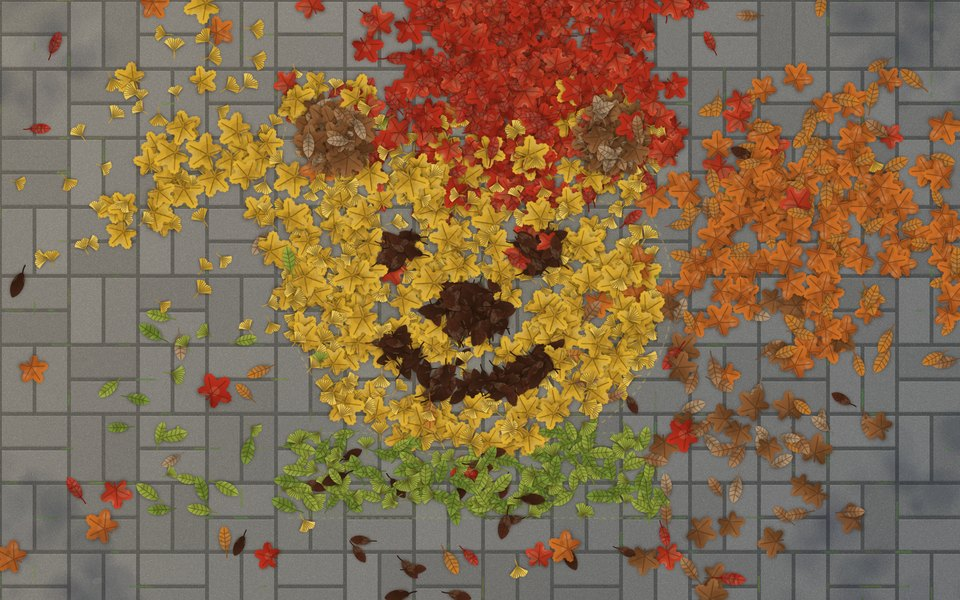
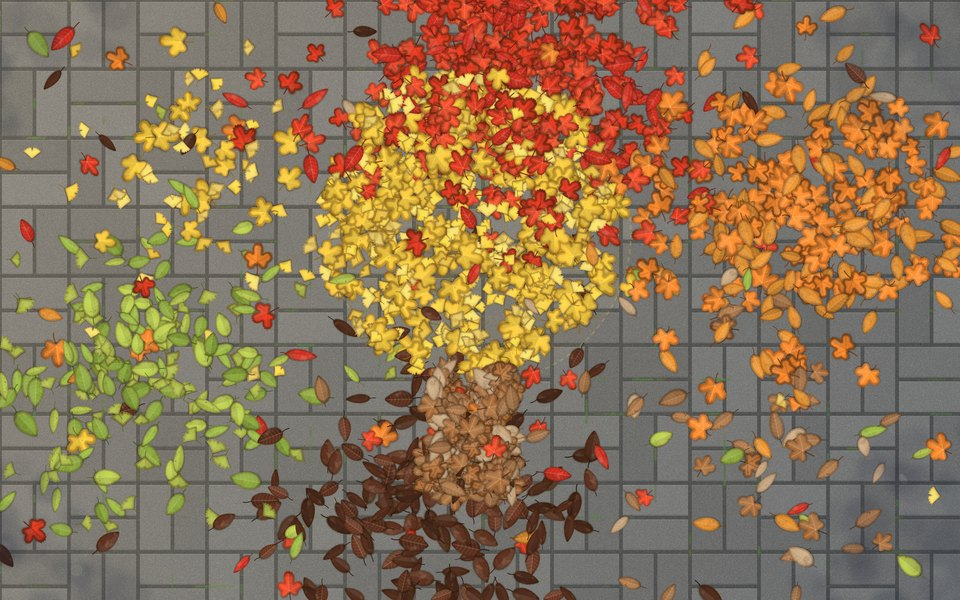
day-261106 낙엽을 사실적으로, 쉬운 도안 다섯 개 추가

diff --git a/day-261106/scene.js b/day-261106/scene.js
@@ -9,51 +9,82 @@ export const FAMS = [
   { name: '초록', ink: '#9bbd4a', sp: [[2, '#86a23c', '#4f6a1f', 1], [2, '#a7b84a', '#6b7e25', .95], [1, '#a9b94c', '#6f7e26', .8]] },
 ];
 
-export function leafPath(ctx, kind, s) {
-  ctx.beginPath();
-  if (kind === 0) {
-    for (let i = 0; i <= 140; i++) {
-      const t = i / 140 * TAU - Math.PI / 2;
-      const lobe = Math.pow(Math.abs(Math.cos(2.5 * (t + Math.PI / 2))), 1.3), saw = .06 * Math.pow(Math.abs(Math.sin(t * 15)), 3);
-      const r = s * (.56 + .44 * lobe + saw) * (1 - .5 * Math.pow(Math.max(0, Math.sin(t)), 6));
-      i ? ctx.lineTo(Math.cos(t) * r, Math.sin(t) * r) : ctx.moveTo(Math.cos(t) * r, Math.sin(t) * r);
+const D2R = Math.PI / 180;
+function maplePts(s) {
+  const tips = [[-148, .82], [-90, 1], [-32, .82], [28, .52], [152, .52]].map(([a, l]) => [(a + rnd(-7, 7)) * D2R, l * rnd(.9, 1.08)]);
+  const seq = [...tips.slice(0, 4), [Math.PI / 2, .12, 1], tips[4]], pts = [];
+  for (let i = 0; i < seq.length; i++) {
+    const [a, la, sa] = seq[i], nx = seq[(i + 1) % seq.length], lb = nx[1], stem = sa || nx[2];
+    let b = nx[0]; if (b <= a) b += TAU;
+    const rs = stem ? .18 : rnd(.44, .54), n = 16;
+    for (let k = 0; k < n; k++) {
+      const t = k / n, ang = a + (b - a) * t;
+      let r = t < .5 ? la + (rs - la) * Math.pow(t * 2, 2.4) : rs + (lb - rs) * (1 - Math.pow(1 - (t - .5) * 2, 2.4));
+      if (k % 2 && !stem) r *= 1 + rnd(.05, .11) * Math.min(1, Math.abs(t - .5) * 3);
+      pts.push([Math.cos(ang) * r * s, Math.sin(ang) * r * s]);
     }
-    ctx.closePath();
-  } else if (kind === 1) {
-    ctx.moveTo(0, .42 * s);
-    ctx.quadraticCurveTo(-.18 * s, .12 * s, -.82 * s, -.32 * s);
-    ctx.quadraticCurveTo(-.45 * s, -.92 * s, -.04 * s, -.62 * s);
-    ctx.lineTo(0, -.44 * s); ctx.lineTo(.04 * s, -.62 * s);
-    ctx.quadraticCurveTo(.45 * s, -.92 * s, .82 * s, -.32 * s);
-    ctx.quadraticCurveTo(.18 * s, .12 * s, 0, .42 * s);
-    ctx.closePath();
-  } else {
-    ctx.moveTo(0, -s);
-    ctx.bezierCurveTo(.58 * s, -.62 * s, .5 * s, .5 * s, 0, .78 * s);
-    ctx.bezierCurveTo(-.5 * s, .5 * s, -.58 * s, -.62 * s, 0, -s);
-    ctx.closePath();
   }
+  return { pts, veins: tips.map(([a, l]) => [Math.cos(a) * l * s * .92, Math.sin(a) * l * s * .92]), base: [0, 0], stem: [0, s * .12] };
+}
+function ginkgoPts(s) {
+  const pts = [], cy = s * .42, notch = rnd(.1, .3), A0 = -142 * D2R, A1 = -38 * D2R, ph = rnd(0, 9);
+  pts.push([0, cy]);
+  for (let k = 1; k < 8; k++) { const t = k / 8, ex = Math.cos(A0) * s * 1.15, ey = cy + Math.sin(A0) * s * 1.15; pts.push([ex * t * (1 - .12 * Math.sin(t * Math.PI)), cy + (ey - cy) * t]); }
+  for (let k = 0; k <= 48; k++) {
+    const a = A0 + (A1 - A0) * k / 48, d = (a + Math.PI / 2) / .07;
+    const r = s * 1.15 * (.97 + .035 * Math.sin(a * 30 + ph)) * (1 - notch * Math.exp(-d * d));
+    pts.push([Math.cos(a) * r, cy + Math.sin(a) * r]);
+  }
+  for (let k = 7; k > 0; k--) { const t = k / 8, ex = Math.cos(A1) * s * 1.15, ey = cy + Math.sin(A1) * s * 1.15; pts.push([ex * t * (1 - .12 * Math.sin(t * Math.PI)), cy + (ey - cy) * t]); }
+  const veins = []; for (let k = 0; k <= 12; k++) { const a = A0 + (A1 - A0) * (k + .5) / 13; veins.push([Math.cos(a) * s * 1.05, cy + Math.sin(a) * s * 1.05]); }
+  return { pts, veins, base: [0, cy], stem: [0, cy], fan: 1 };
+}
+function ovalPts(s) {
+  const pts = [], w = s * rnd(.42, .55), h = s, N = 80, teeth = Math.round(rnd(22, 34)), sk = rnd(-.06, .06);
+  for (let k = 0; k < N; k++) {
+    const u = k / N * TAU, saw = 1 + .045 * ((k * teeth / N) % 1);
+    const x = w * Math.sin(u) * (1 - .55 * Math.pow(Math.cos(u / 2), 8)) * (Math.sin(u) > 0 ? 1 + sk : 1 - sk) * saw, y = -h * Math.cos(u) * (Math.cos(u) < 0 ? .82 : 1) * saw;
+    pts.push([x, y]);
+  }
+  const veins = []; for (let k = 1; k < 7; k++) { const y = -h * .8 + k * h * .24; veins.push([w * .8, y - h * .2], [-w * .8, y - h * .2], [0, y]); }
+  return { pts, veins, base: [0, h * .8], stem: [0, h * .8], mid: [[0, h * .8], [0, -h * .92]], w };
+}
+const tracePts = pts => { const p = new Path2D(); pts.forEach(([x, y], i) => i ? p.lineTo(x, y) : p.moveTo(x, y)); p.closePath(); return p; };
+const shift = (hex, k) => { const n = parseInt(hex.slice(1), 16); const f = c => Math.max(0, Math.min(255, Math.round(c * k))); return `rgb(${f(n >> 16)},${f(n >> 8 & 255)},${f(n & 255)})`; };
+
+function drawLeaf(x, kind, s, ca, cb, dry) {
+  const L = kind === 0 ? maplePts(s) : kind === 1 ? ginkgoPts(s) : ovalPts(s), path = tracePts(L.pts);
+  x.strokeStyle = shift(cb, .8); x.lineWidth = s * .05; x.lineCap = 'round';
+  x.beginPath(); x.moveTo(...L.stem); const sl = s * rnd(.35, .6), bend = rnd(-.2, .2) * s; x.quadraticCurveTo(L.stem[0] + bend, L.stem[1] + sl * .6, L.stem[0] + bend * .6, L.stem[1] + sl); x.stroke();
+  x.save(); x.shadowColor = 'rgba(25,14,5,.55)'; x.shadowBlur = s * .22; x.shadowOffsetX = s * .05; x.shadowOffsetY = s * .09;
+  const k = rnd(.88, 1.12), g = x.createRadialGradient(rnd(-.2, .2) * s, -s * .2, s * .1, 0, 0, s * 1.1);
+  g.addColorStop(0, shift(ca, k * 1.08)); g.addColorStop(.6, shift(ca, k)); g.addColorStop(1, shift(cb, k));
+  x.fillStyle = g; x.fill(path); x.restore();
+  x.save(); x.clip(path);
+  for (let i = 0; i < 10; i++) { x.fillStyle = `rgba(${Math.random() < .5 ? '255,240,200' : '60,28,8'},${rnd(.04, .12)})`; x.beginPath(); x.ellipse(rnd(-s, s), rnd(-s, s), rnd(.08, .3) * s, rnd(.06, .2) * s, rnd(0, 3), 0, TAU); x.fill(); }
+  if (dry || Math.random() < .5) for (let i = 0; i < (dry ? 9 : 4); i++) { x.fillStyle = `rgba(55,28,10,${rnd(.15, .45)})`; x.beginPath(); x.arc(rnd(-s * .7, s * .7), rnd(-s * .8, s * .6), rnd(.015, .06) * s, 0, TAU); x.fill(); }
+  x.lineJoin = 'round'; x.strokeStyle = `rgba(70,34,10,${dry ? .55 : rnd(.2, .38)})`; x.lineWidth = s * rnd(.14, .26); x.filter = `blur(${(s * .05).toFixed(1)}px)`; x.stroke(path); x.filter = 'none';
+  x.fillStyle = Math.random() < .5 ? 'rgba(0,0,0,.1)' : 'rgba(255,245,220,.08)'; x.fillRect(L.fan ? -s : 0, -s * 1.2, s * (L.fan ? 1 : 1.2), s * 2.4);
+  const vc = kind === 1 ? 'rgba(120,80,20,.28)' : `rgba(${dry ? '60,30,10' : '255,225,170'},${rnd(.14, .26)})`;
+  x.strokeStyle = vc; x.lineCap = 'round';
+  if (L.mid) { x.lineWidth = s * .045; x.beginPath(); x.moveTo(...L.mid[0]); x.lineTo(...L.mid[1]); x.stroke(); x.lineWidth = s * .02; for (let i = 0; i < L.veins.length; i += 3) { const [, , [, y]] = [L.veins[i], L.veins[i + 1], L.veins[i + 2]]; x.beginPath(); x.moveTo(0, y); x.quadraticCurveTo(L.w * .4, y - s * .06, ...L.veins[i]); x.moveTo(0, y); x.quadraticCurveTo(-L.w * .4, y - s * .06, ...L.veins[i + 1]); x.stroke(); } }
+  else { L.veins.forEach(([vx, vy], i) => { x.lineWidth = s * (kind === 1 ? .012 : i === 1 ? .045 : .035); x.beginPath(); x.moveTo(...L.base); x.lineTo(vx, vy); x.stroke(); if (kind === 0) { x.lineWidth = s * .015; for (let t = .3; t < .9; t += .2) { const px = vx * t, py = vy * t, a = Math.atan2(vy, vx); x.moveTo(px, py); x.lineTo(px + Math.cos(a + .7) * s * .15, py + Math.sin(a + .7) * s * .15); x.moveTo(px, py); x.lineTo(px + Math.cos(a - .7) * s * .15, py + Math.sin(a - .7) * s * .15); } x.stroke(); } }); }
+  x.restore();
 }
 
 export function makeSprites() {
-  const S = 32, P = 2, size = S * 2 * P + 16;
-  return FAMS.map(f => f.sp.map(([kind, a, b, sc]) => {
-    const c = document.createElement('canvas'); c.width = c.height = size;
-    const x = c.getContext('2d'); x.translate(size / 2, size / 2); x.scale(P, P);
-    x.save(); x.shadowColor = 'rgba(25,15,6,.5)'; x.shadowBlur = 4 * P; x.shadowOffsetY = 1.2 * P;
-    leafPath(x, kind, S * .5); const g = x.createLinearGradient(-S * .4, -S * .5, S * .4, S * .5);
-    g.addColorStop(0, a); g.addColorStop(1, b); x.fillStyle = g; x.fill(); x.restore();
-    x.save(); leafPath(x, kind, S * .5); x.clip();
-    for (let k = 0; k < 7; k++) { x.fillStyle = `rgba(${k % 2 ? '255,236,190' : '45,22,8'},${rnd(.06, .16)})`; x.beginPath(); x.arc(rnd(-S * .4, S * .4), rnd(-S * .4, S * .4), rnd(2, 7), 0, TAU); x.fill(); }
-    x.strokeStyle = 'rgba(50,26,10,.4)'; x.lineWidth = .9; x.beginPath();
-    if (kind === 0) for (let k = 0; k < 5; k++) { const t = -Math.PI / 2 + k * TAU / 5; x.moveTo(0, S * .1); x.lineTo(Math.cos(t) * S * .42, Math.sin(t) * S * .42); }
-    else if (kind === 1) for (let k = -3; k <= 3; k++) { x.moveTo(0, S * .2); x.lineTo(k * S * .11, -S * .36); }
-    else { x.moveTo(0, -S * .48); x.lineTo(0, S * .38); for (let k = 1; k < 5; k++) { const y = -S * .4 + k * S * .15; x.moveTo(0, y + S * .05); x.lineTo(S * .2, y - S * .05); x.moveTo(0, y + S * .05); x.lineTo(-S * .2, y - S * .05); } }
-    x.stroke(); x.restore();
-    x.strokeStyle = b; x.lineWidth = 1.3; x.lineCap = 'round'; x.beginPath();
-    const st = kind === 1 ? S * .2 : kind === 0 ? S * .08 : S * .38; x.moveTo(0, st); x.quadraticCurveTo(S * .04, st + S * .14, S * .02, st + S * .26); x.stroke();
-    return { c, size, sc };
-  }));
+  const S = 34, P = 2.5, size = Math.ceil(S * 1.7 * P);
+  return FAMS.map(f => {
+    const out = [];
+    for (let v = 0; v < 7; v++) {
+      const [kind, a, b, sc] = f.sp[v % f.sp.length], c = document.createElement('canvas'); c.width = c.height = size;
+      const x = c.getContext('2d'); x.translate(size / 2, size / 2); x.scale(P, P);
+      const curl = Math.random() < .3; if (curl) x.scale(rnd(.68, .85), 1);
+      drawLeaf(x, kind, S * .5, a, b, f.name === '갈색' || f.name === '진갈색' ? Math.random() < .6 : Math.random() < .15);
+      out.push({ c, size, sc, P });
+    }
+    return out;
+  });
 }
 
 export function makeGround(W, H, DPR) {

diff --git a/day-261106/main.js b/day-261106/main.js
@@ -48,10 +48,11 @@ function setShape(name) {
   if (!name) return;
   const area = areaCache[name] || (areaCache[name] = areaByFam(name)), avail = [0, 0, 0, 0, 0, 0];
   leaves.forEach(l => avail[l.f]++);
-  const cover = Math.pow(32 * LS, 2) * .3;
-  let S = Math.min(W * .42, (H - 150) * .46);
+  const cover = Math.pow(32 * LS, 2) * (SHAPES[name].easy ? .2 : .3);
+  const barH = $('bar').getBoundingClientRect().height + 24;
+  let S = Math.min(W * .42, (H - barH - 60) * .48);
   area.forEach((a, f) => { if (a) S = Math.min(S, 100 * Math.sqrt(avail[f] * .8 * cover / a)); });
-  const cx = W / 2, cy = H / 2 - 8;
+  const cx = W / 2, cy = 50 + (H - barH - 50) / 2;
   mask = buildMask(name, S, cx, cy, gw, gh, CELL);
   maskCells = []; mask.forEach((v, i) => { if (v !== -2) maskCells.push(i); });
   guide = document.createElement('canvas'); guide.width = W * DPR; guide.height = H * DPR;
@@ -69,7 +70,7 @@ function score() {
   }
   fillPct = ok / maskCells.length;
   $('fill').textContent = Math.round(fillPct * 100);
-  if (!done && fillPct >= .75) { done = true; $('score').className = 'done'; $('hint').textContent = '완성! 사진으로 남겨 보세요'; chime(); }
+  if (!done && fillPct >= (SHAPES[shapeName].easy ? .7 : .75)) { done = true; $('score').className = 'done'; $('hint').textContent = '완성! 사진으로 남겨 보세요'; chime(); }
 }
 
 function grab() {
@@ -175,7 +176,7 @@ function render(cursor = true) {
   for (const i of order) {
     const l = leaves[i];
     if (l.z > 1) { ctx.setTransform(DPR, 0, 0, DPR, 0, 0); ctx.globalAlpha = .2; ctx.fillStyle = '#1a120a'; ctx.beginPath(); ctx.ellipse(l.x + l.z * .35, l.y + l.z * .45, 9 * l.s * LS, 6 * l.s * LS, 0, 0, TAU); ctx.fill(); ctx.globalAlpha = 1; }
-    const fl = l.z > 1 ? .45 + .55 * Math.abs(Math.cos(T * 4 + l.ph)) : 1, sc = l.s * LS * (1 + l.z / 300) / 2, c = Math.cos(l.a) * sc, s = Math.sin(l.a) * sc;
+    const fl = l.z > 1 ? .45 + .55 * Math.abs(Math.cos(T * 4 + l.ph)) : 1, sc = l.s * LS * (1 + l.z / 300) / l.spr.P, c = Math.cos(l.a) * sc, s = Math.sin(l.a) * sc;
     ctx.setTransform(c * DPR, s * DPR, -s * fl * DPR, c * fl * DPR, l.x * DPR, l.y * DPR);
     ctx.drawImage(l.spr.c, -l.spr.size / 2, -l.spr.size / 2);
   }
@@ -221,7 +222,8 @@ cv.addEventListener('pointerleave', e => { if (!P.down) P.over = false; });
 
 const pick = (grp, attr, fn) => grp.querySelectorAll('button').forEach(b => b.onclick = () => { grp.querySelectorAll('button').forEach(x => x.classList.toggle('on', x === b)); fn(b.dataset[attr]); });
 pick($('tools'), 'tool', v => { release(); tool = v; });
-pick($('shapes'), 'shape', v => setShape(v));
+const sb = document.querySelectorAll('[data-shape]');
+sb.forEach(b => b.onclick = () => { sb.forEach(x => x.classList.toggle('on', x === b)); setShape(b.dataset.shape); });
 $('wind').onclick = () => { audioInit(); const a = rnd(0, TAU); gust = { x: Math.cos(a) * 420, y: Math.sin(a) * 420, t: 1.6 }; };
 $('snd').onclick = () => { mute = !mute; $('snd').textContent = mute ? '소리 켜기' : '소리 끄기'; if (master) master.gain.value = mute ? 0 : 1; };
 $('shot').onclick = () => {

diff --git a/day-261106/index.html b/day-261106/index.html
@@ -30,7 +30,8 @@
 <div id="score" class="hide">그림 <b id="fill">0</b>%</div>
 <div id="bar">
   <div class="grp" id="tools"><button data-tool="hand">손</button><button data-tool="broom" class="on">빗자루</button><button data-tool="blower">송풍기</button></div>
-  <div class="grp" id="shapes"><button data-shape="" class="on">자유</button><button data-shape="heart">하트</button><button data-shape="bear">곰</button><button data-shape="bird">새</button><button data-shape="person">사람</button><button data-shape="rose">장미</button></div>
+  <div class="grp shapes"><button data-shape="" class="on">자유</button><button data-shape="circle">동그라미</button><button data-shape="heart">하트</button><button data-shape="star">별</button><button data-shape="smile">웃는 얼굴</button><button data-shape="tree">나무</button></div>
+  <div class="grp shapes"><button data-shape="bear">곰</button><button data-shape="bird">새</button><button data-shape="person">사람</button><button data-shape="rose">장미</button></div>
   <div class="grp"><button id="wind">바람</button><button id="shot">사진</button><button id="snd">소리 끄기</button></div>
 </div>
 <a class="back" href="../index.html">←</a>

diff --git a/day-261106/shapes.js b/day-261106/shapes.js
@@ -18,7 +18,11 @@ const spiral = (x, y, r0, r1, turns, w) => c => {
 };
 
 export const SHAPES = {
-  heart: { name: '하트', parts: [[R, heart(1)], [O, heart(.42, 0, .08)]] },
+  circle: { name: '동그라미', easy: true, parts: [[Y, circle(0, 0, 1)]] },
+  heart: { name: '하트', easy: true, parts: [[R, heart(1)]] },
+  star: { name: '별', easy: true, parts: [[O, c => { for (let i = 0; i < 10; i++) { const a = -Math.PI / 2 + i * Math.PI / 5, r = i % 2 ? .5 : 1; c.lineTo(Math.cos(a) * r, Math.sin(a) * r + .1); } c.closePath(); }]] },
+  smile: { name: '웃는 얼굴', easy: true, parts: [[Y, circle(0, 0, 1)], [D, circle(-.36, -.28, .15)], [D, circle(.36, -.28, .15)], [D, band(0, .05, .5, .11, .35, Math.PI - .35)]] },
+  tree: { name: '나무', easy: true, parts: [[B, poly([-.16, .1], [.16, .1], [.22, 1], [-.22, 1])], [Y, circle(0, -.3, .72)]] },
   bear: { name: '곰', parts: [
     [G, poly([-.78, .62], [.78, .62], [.86, 1], [-.86, 1])],
     [Y, circle(-.62, -.66, .26)], [Y, circle(.62, -.66, .26)],

diff --git a/index.html b/index.html
@@ -466,7 +466,7 @@
     <div class="card-info">
       <div class="card-tag">day 261106 · fallen leaves</div>
       <div class="card-title">낙엽 쓸기</div>
-      <div class="card-concept">나무 밑에 색깔별로 쌓인 낙엽을 손·빗자루·송풍기로 옮겨 보도블록 위에 곰·새·장미 같은 그림을 만든다</div>
+      <div class="card-concept">나무 밑에 색깔별로 쌓인 낙엽을 손·빗자루·송풍기로 옮겨 보도블록 위에 동그라미부터 곰·새·장미까지 그림을 만든다</div>
       <div class="card-bottom">
         <span>2026.11.06</span>
         <span class="bookmark" aria-hidden="true"></span>
